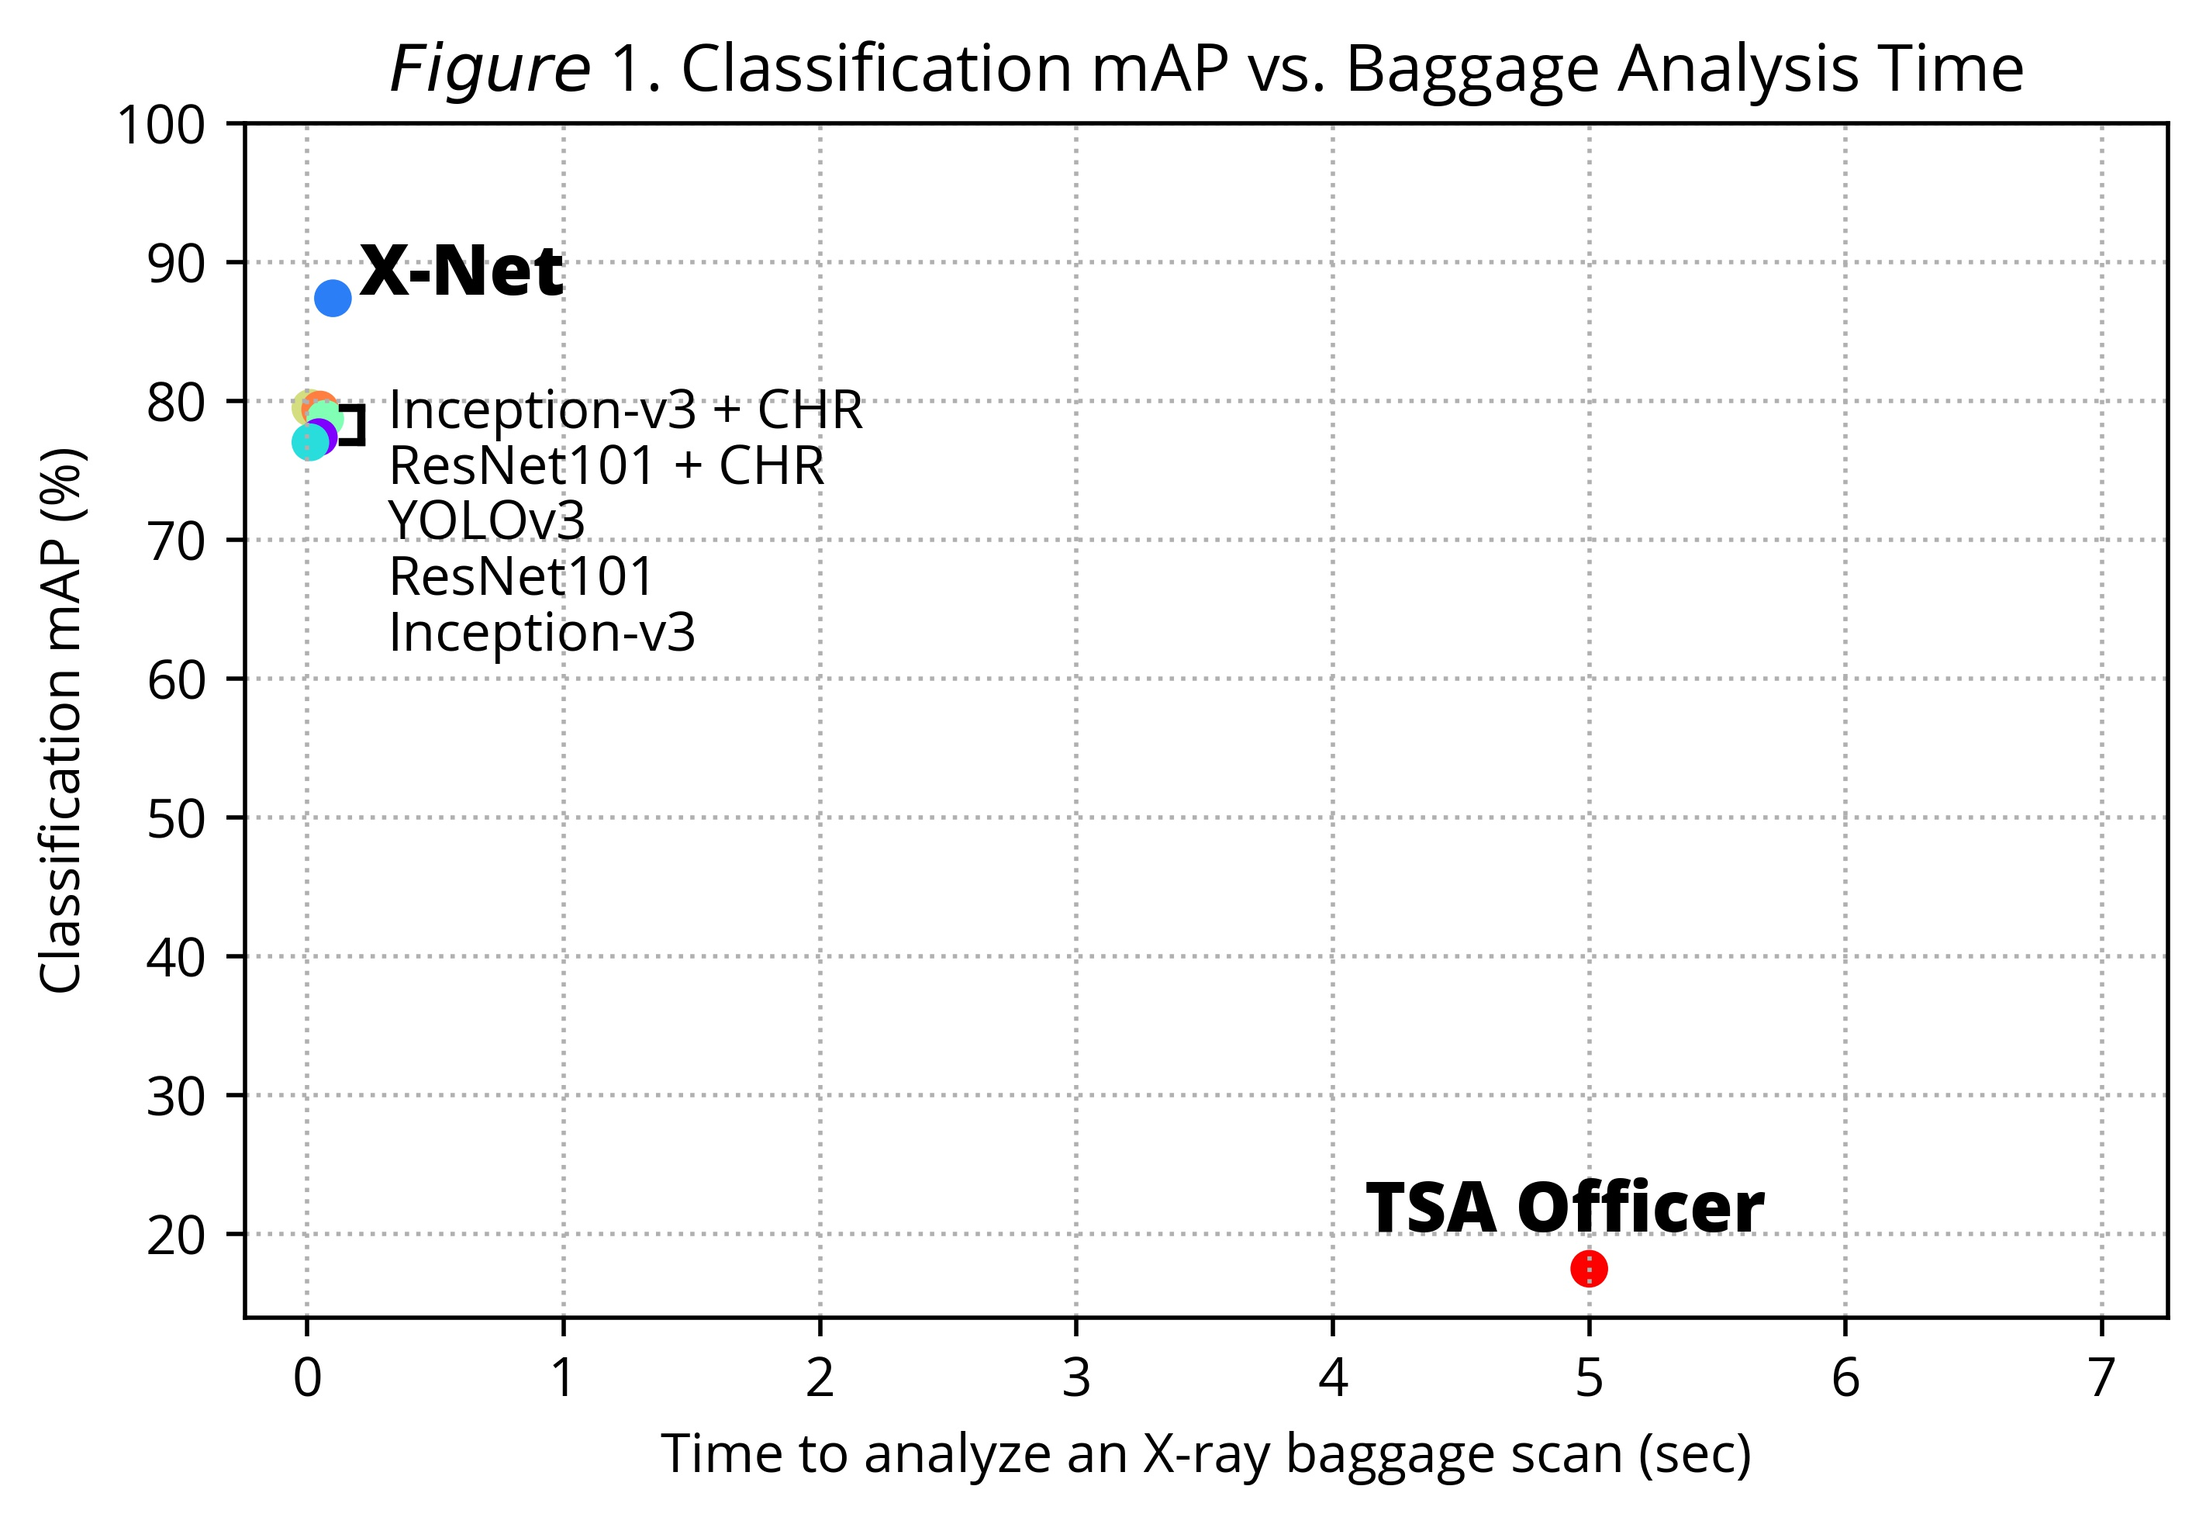
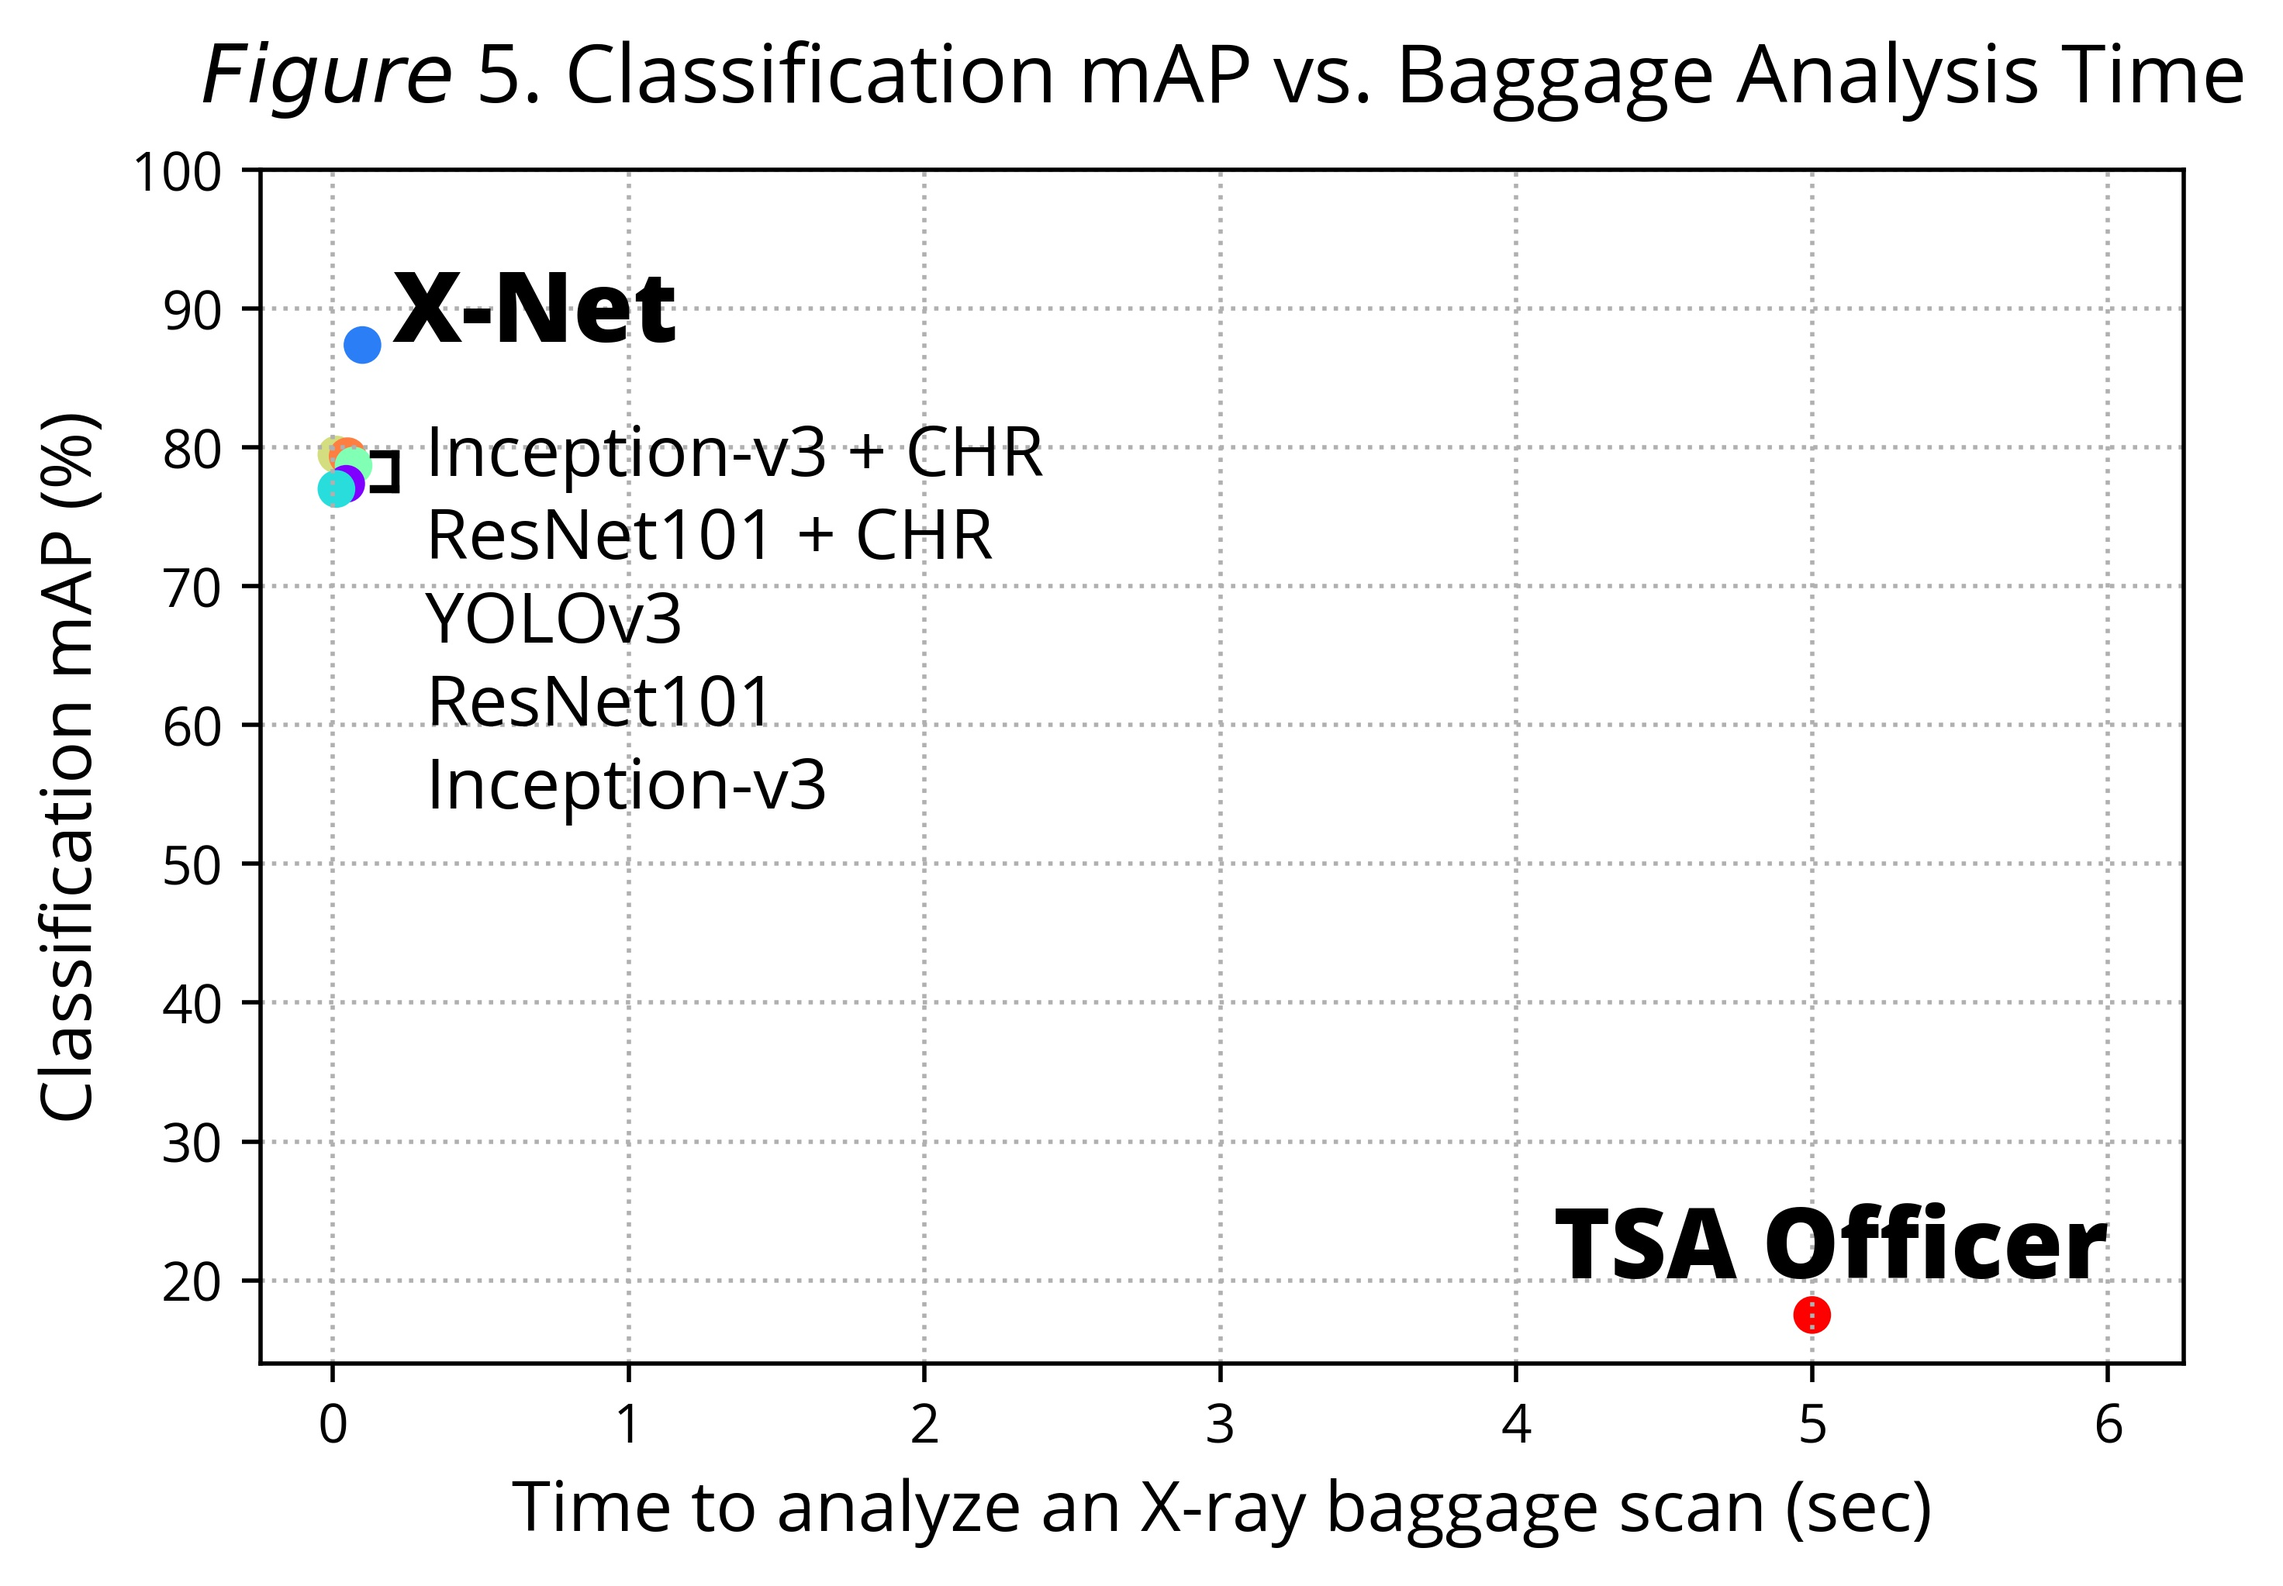
updating plots' font and font size

diff --git a/utils/visuals.py b/utils/visuals.py
@@ -166,13 +166,13 @@ def plot(results, mode, save_path=None, with_citations=False, font=None):
     # annotate outliers
     for model in results:
         if "X-Net" in model:
-            plt.annotate(model, (results[model][0] + 0.1, results[model][1] + 0.25), weight="bold", fontsize=13)
+            plt.annotate(model, (results[model][0] + 0.1, results[model][1] + 0.25), weight="bold", fontsize=18)
         elif "TSA" in model:
             if with_citations:
-                plt.annotate("TSA Officer", (results[model][0] - 1.75, results[model][1] + 2.7), weight="bold", fontsize=13)
+                plt.annotate("TSA Officer", (results[model][0] - 1.75, results[model][1] + 2.7), weight="bold", fontsize=18)
                 plt.annotate(model.replace("TSA", " "), (results[model][0], results[model][1] + 2.9))
             else:
-                plt.annotate("TSA Officer", (results[model][0] - 0.875, results[model][1] + 2.7), weight="bold", fontsize=13)
+                plt.annotate("TSA Officer", (results[model][0] - 0.875, results[model][1] + 2.7), weight="bold", fontsize=18)
 
     # annotate other points
     vertical_endpts, horizontal_endpts = draw_brackets()
@@ -181,23 +181,26 @@ def plot(results, mode, save_path=None, with_citations=False, font=None):
         if not with_citations and " " in model:
             model = model[:model.find("[") - 1]
         if mode == "classification":
-            plt.annotate(model, (vertical_endpts[0][0] + 0.1, vertical_endpts[0][1] - (idx * 4) + 1), fontsize=10)
+            plt.annotate(model, (vertical_endpts[0][0] + 0.1, vertical_endpts[0][1] - (idx * 6) + 1), fontsize=13)
         elif mode == "localization":
-            plt.annotate(model, (vertical_endpts[0][0] + 0.1, vertical_endpts[1][1] - (idx * 4)), fontsize=10)
+            plt.annotate(model, (vertical_endpts[0][0] + 0.1, vertical_endpts[1][1] - (idx * 6)), fontsize=13)
         else:
             raise ValueError("supported modes are 'classification' and 'localization'")
 
     # set up grid and plot
     plt.grid(which="major", linestyle=":")
 
-    apa_citation = "$\it{Figure}$ " + ("1" if mode == "classification" else "2")
+    apa_citation = "$\it{Figure}$ " + ("5" if mode == "classification" else "6")
 
-    plt.title("{}. {} mAP vs. Baggage Analysis Time".format(apa_citation, mode.title()))
-    plt.xlabel("Time to analyze an X-ray baggage scan (sec)")
-    plt.ylabel("{} mAP (%)".format(mode.title()))
+    plt.title("{}. {} mAP vs. Baggage Analysis Time".format(apa_citation, mode.title()), fontsize=15)
+    plt.xlabel("Time to analyze an X-ray baggage scan (sec)", fontsize=13)
+    plt.ylabel("{} mAP (%)".format(mode.title()), fontsize=13)
+
+    title = plt.gca().title
+    title.set_position([.5, 1.03])
 
     x1, x2, y1, y2 = plt.axis()
-    plt.axis((x1, x2 + 2, y1, 100))
+    plt.axis((x1, x2 + 1., y1, 100))
 
     fig = plt.gcf()
     x, y = fig.get_size_inches()
@@ -214,5 +217,5 @@ if __name__ == "__main__":
     classification_results = parse_model_results("../results/text/classification_results.json")
     localization_results = parse_model_results("../results/text/localization_results.json")
 
-    plot(classification_results, mode="classification", save_path="../results/plots/classification_map.jpg", font="Product Sans")
-    plot(localization_results, mode="localization", save_path="../results/plots/localization_map.jpg", font="Product Sans")
+    plot(classification_results, mode="classification", save_path="../results/plots/classification_map.jpg", font="Open Sans")
+    plot(localization_results, mode="localization", save_path="../results/plots/localization_map.jpg", font="Open Sans")
